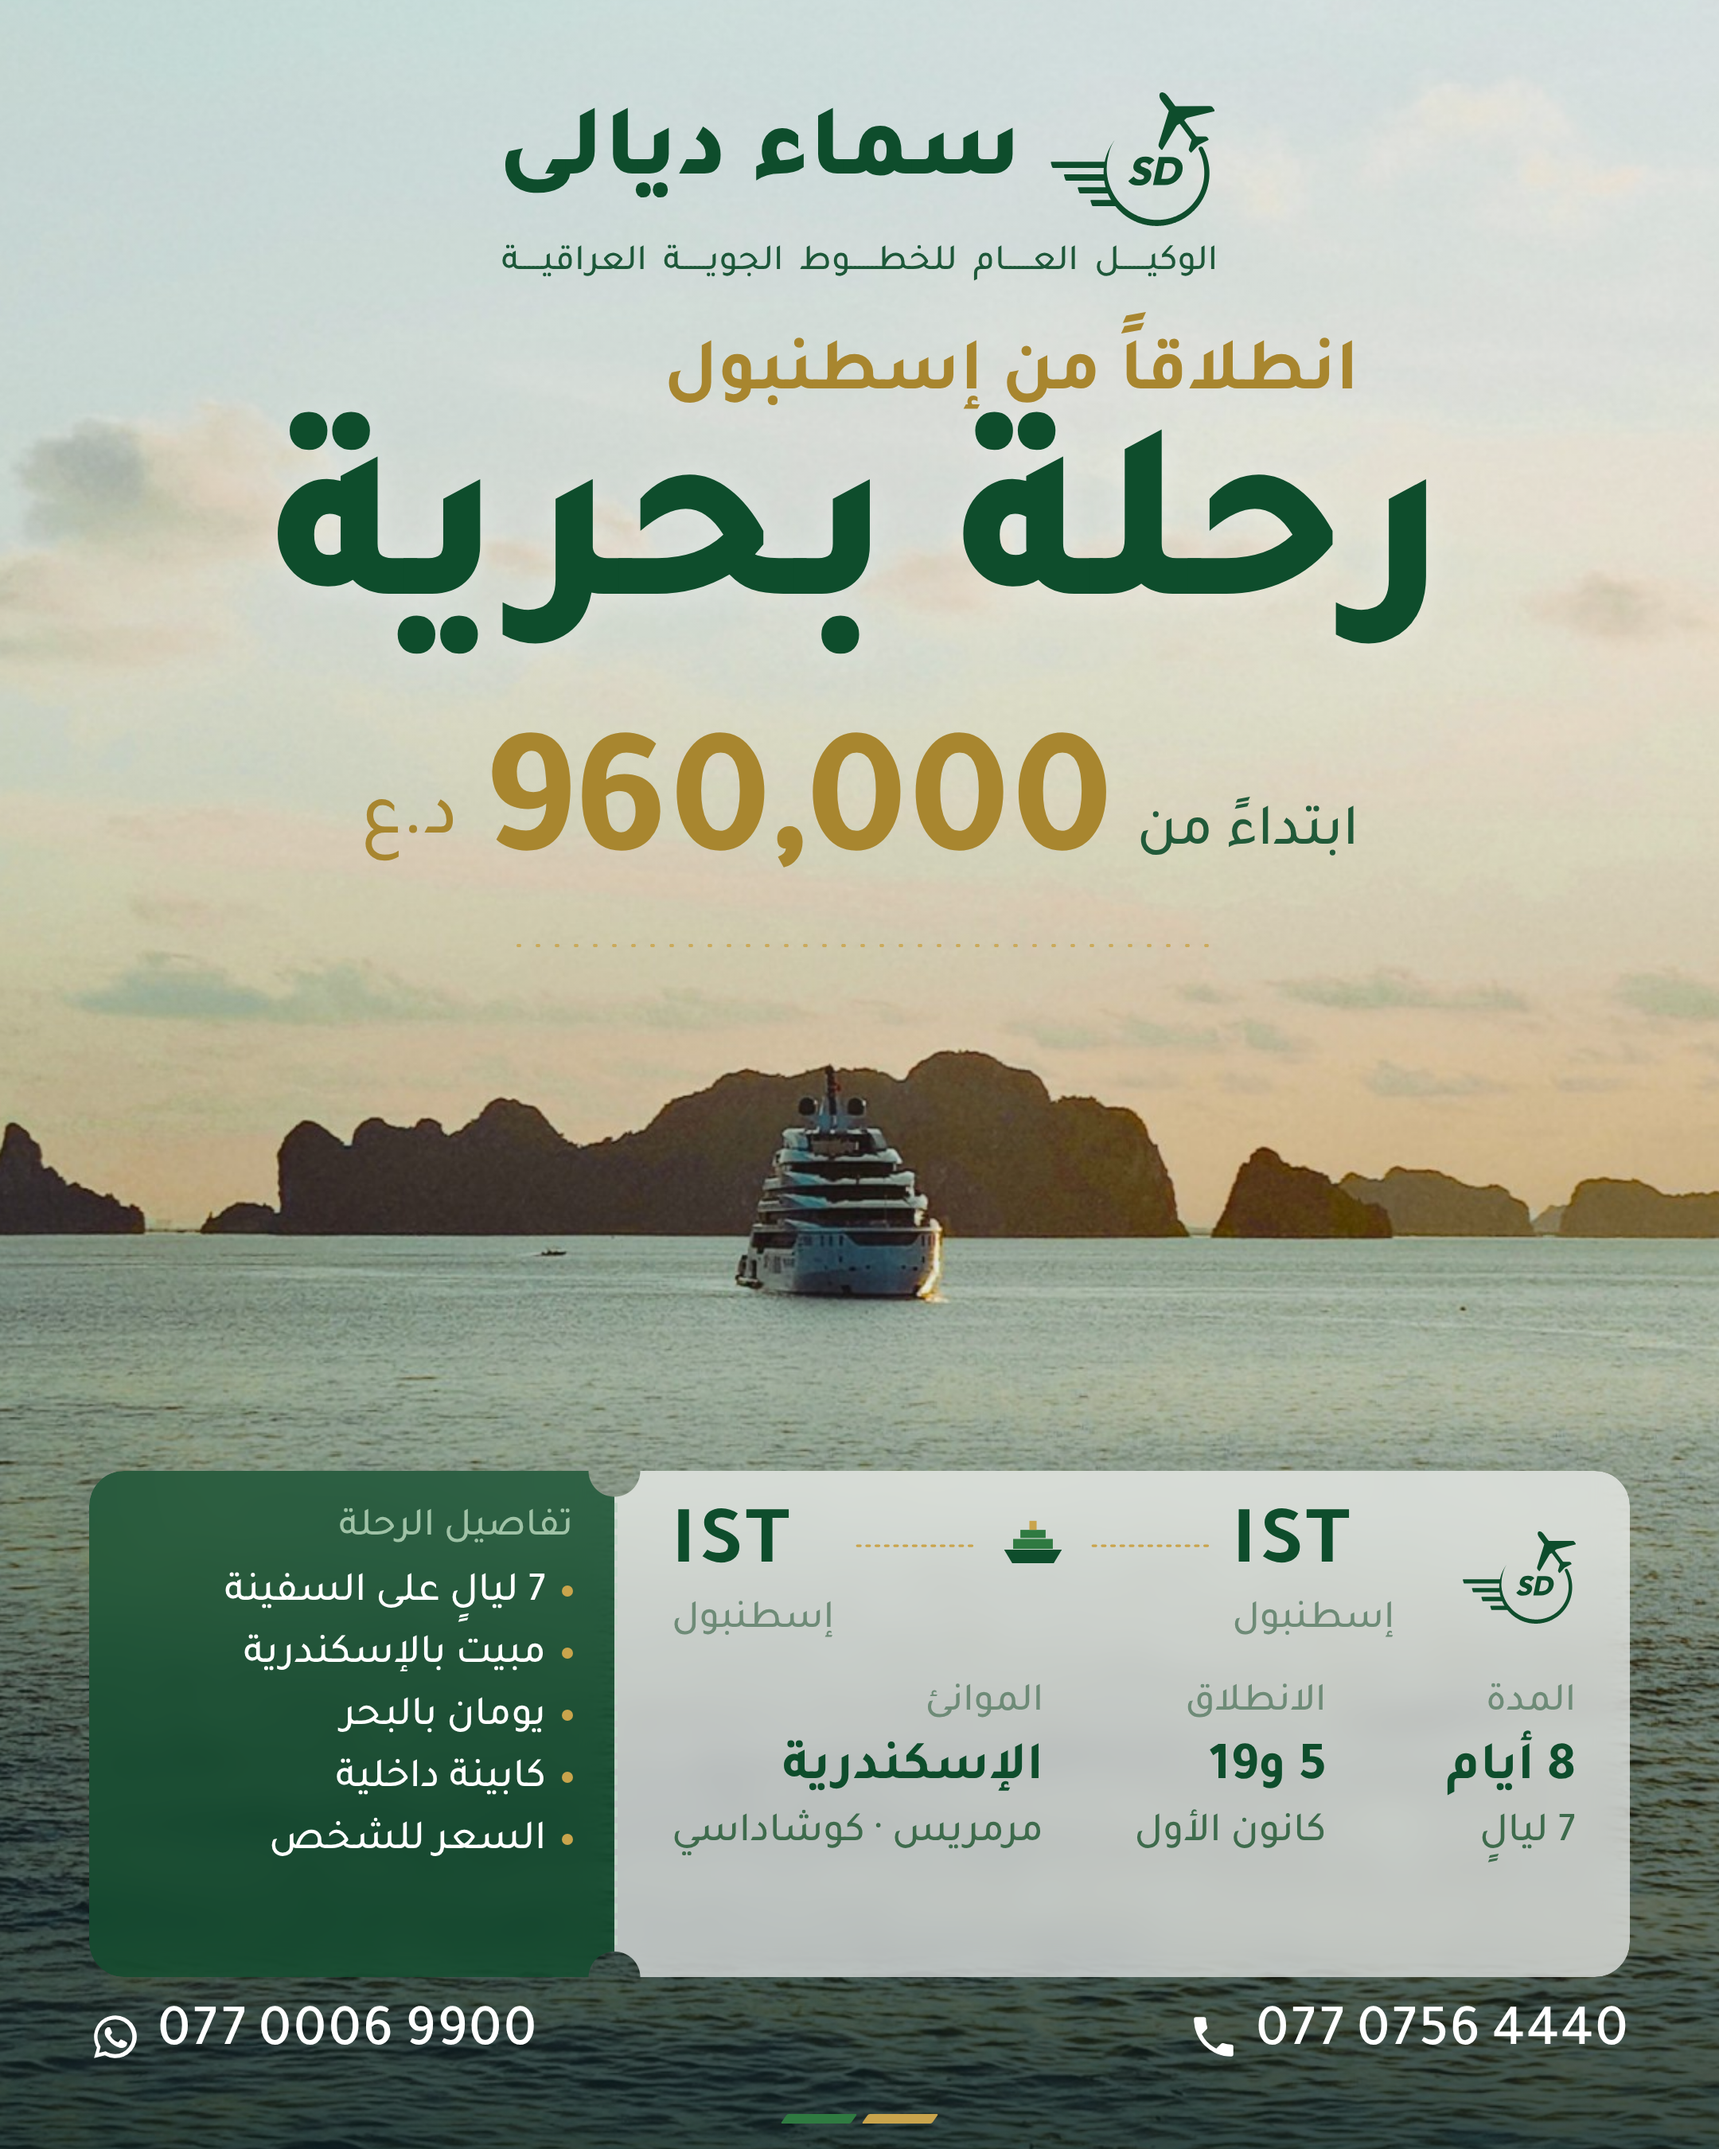
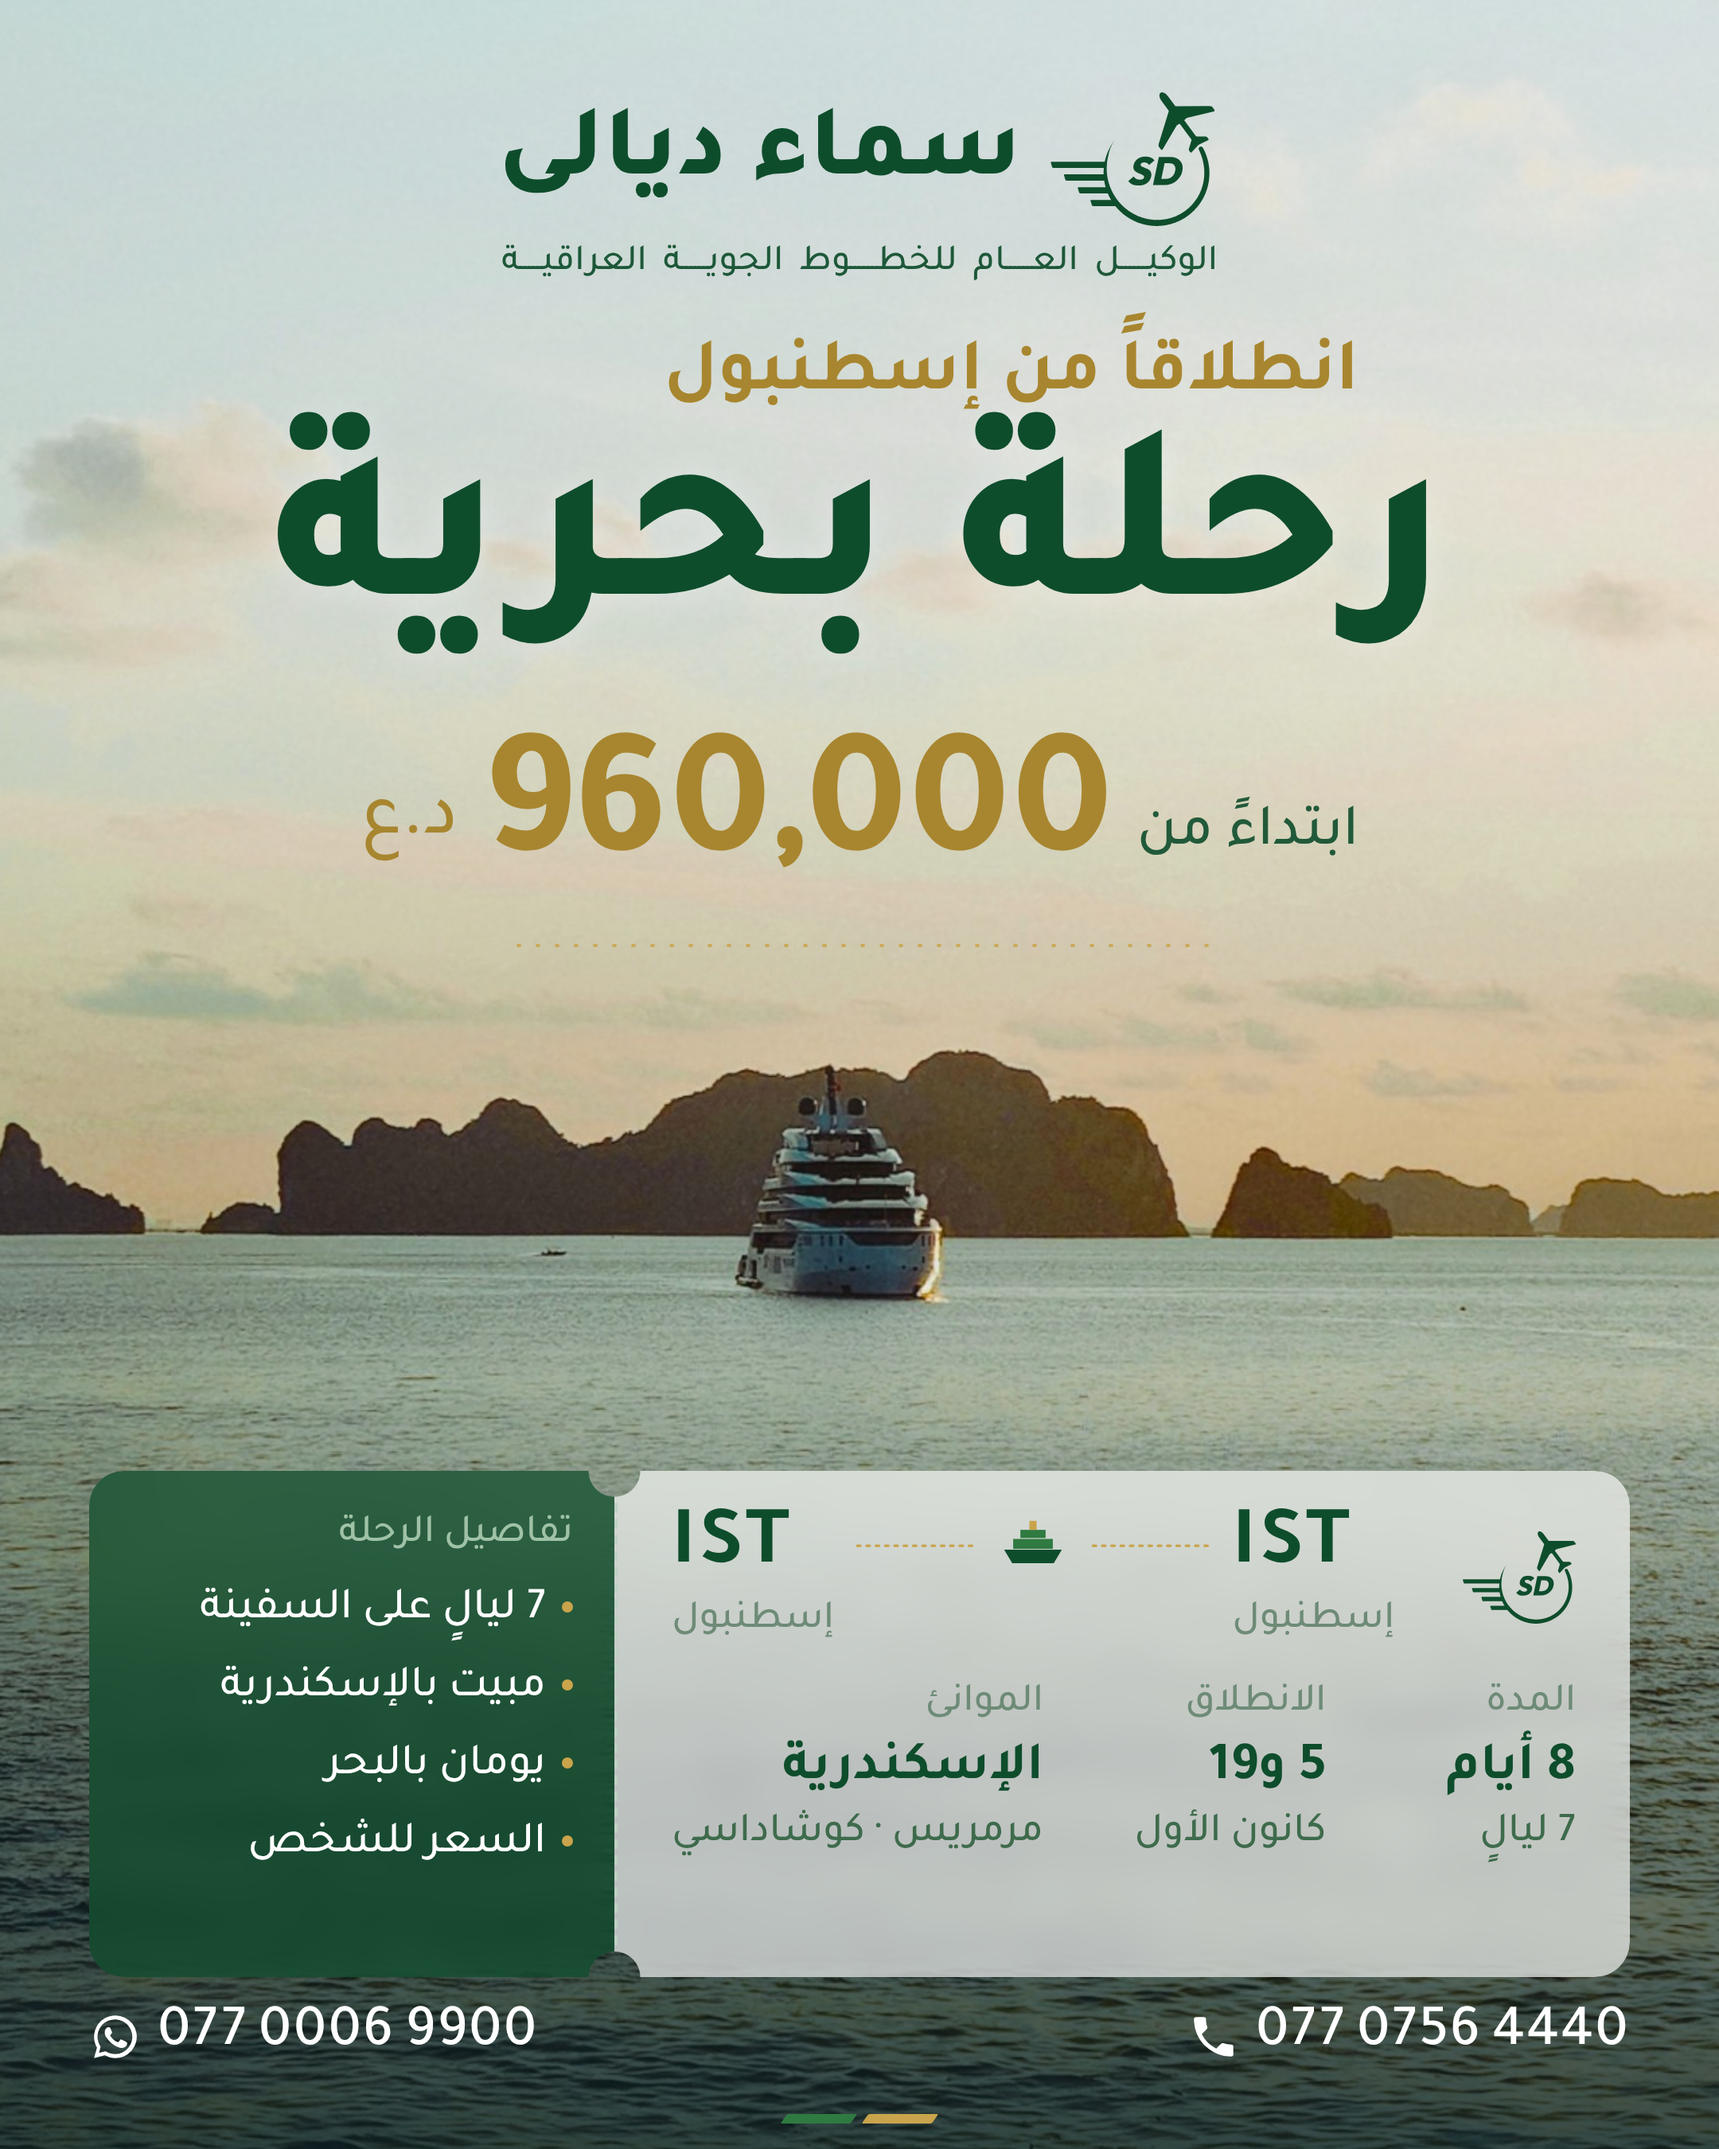
الرحلة البحرية: حذف نوع الكابينة من الإعلان والنص
Claude-Session: https://claude.ai/code/session_01EprWPUJDuKvYHn821imCPv

Changed region(s): [[0.1241, 0.6844, 0.3412, 0.8711]]

diff --git a/09-التصاميم/رحلة بحرية من إسطنبول - نظيف مع بطاقة صعود/إعلان.html b/09-التصاميم/رحلة بحرية من إسطنبول - نظيف مع بطاقة صعود/إعلان.html
@@ -122,8 +122,8 @@
   .f .v .sub{font-size:26px !important;margin-top:2px}
   .fields{margin-top:22px !important}
   .stubx{width:330px !important;padding:22px 26px !important}
-  .stubx .k{margin-bottom:6px !important}
-  .stubx ul{font-size:26px !important;line-height:1.5 !important}
+  .stubx .k{margin-bottom:8px !important;margin-top:4px}
+  .stubx ul{font-size:28px !important;line-height:1.75 !important}
 </style>
 </head>
 <body>
@@ -176,7 +176,7 @@
     </div>
     <div class="stubx">
       <div class="k">تفاصيل الرحلة</div>
-      <ul><li>7 ليالٍ على السفينة</li><li>مبيت بالإسكندرية</li><li>يومان بالبحر</li><li>كابينة داخلية</li><li>السعر للشخص</li></ul>
+      <ul><li>7 ليالٍ على السفينة</li><li>مبيت بالإسكندرية</li><li>يومان بالبحر</li><li>السعر للشخص</li></ul>
     </div>
   </div>
   <div class="stripes"><i></i><i></i></div>

diff --git a/CLAUDE.md b/CLAUDE.md
@@ -63,7 +63,7 @@
 ## نظام إعلانات العروض: "التصميم النظيف" (معتمد 18 تشرين الثاني 2026)
 حين يقول إحسان "التصميم النظيف" فالمقصود هذا النظام. المراجع المعتمدة في `11-مراجع-معتمدة/التصميم النظيف/` (إسطنبول، بيروت، الأردن)، والقالب الأساسي `09-التصاميم/إعلان إسطنبول رأس السنة/إعلان.html`.
 - اسم الوجهة بخط Naskh كبير (أكبر من السعر قليلاً) بين سطر الوكيل والسعر.
-- اللون حسب الخلفية: سماء داكنة = ترويسة بيضاء وسعر ذهبي، سماء فاتحة = ترويسة خضراء وسعر بالذهبي الغامق.
+- اللون حسب الخلفية: سماء داكنة = ترويسة بيضاء وسعر ذهبي، سماء فاتحة = ترويسة خضراء وسعر بالذهبي الغامق. كعب البطاقة "تفاصيل الرحلة" (7 ليالٍ على السفينة، مبيت بالإسكندرية، يومان بالبحر، السعر للشخص). نوع الكابينة وعدد من فيها لا يُكتبان في الإعلان ولا النص (بطلب إحسان: المسافر يعرفها عند الاتصال).
 - الصورة تُؤطَّر بحيث يبدأ المعلم تحت خط التخريم (عادةً بمدّ السماء للأعلى).
 - **من 19 تشرين الثاني 2026: نسخة "النظيف مع بطاقة صعود" هي التصميم المعتمد لكل إعلانات العروض.** مراجعها في `09-التصاميم/* - نظيف مع بطاقة صعود/`، وملف المشاركة `12-ملفات-للمشاركة/العروض - بطاقة الصعود.pdf`. البرنامج متعدد المدن (مثل الأردن) يُعرض بكولاج من ثلاث صور في ألواح مائلة بفواصل ذهبية، وفوقها الشريطان الأخضر والذهبي، والسماء من إحدى الصور.
 - نسخة "النظيف مع بطاقة صعود": سطر صغير ذهبي فوق الوجهة (مثل "برنامج رأس السنة") تبدأ حافته من حافة "ابتداءً من" نفسها بالقياس (`align.js`)، وبطاقة صعود أسفل الصورة: الجزء الأبيض فيه الرمز الأخضر والمسار وخانات المدة والانطلاق والطيران، والكعب الأخضر فيه "يشمل". البطاقة شبه شفافة بتأثير زجاجي (الأبيض rgba 255,255,255,.66 والكعب rgba 14,77,44,.72 مع blur 10px، بلا ظل). الرقم يبقى أسفل اليسار، وسطر الطيران والمدة ينتقلان إلى البطاقة. في خانة الانطلاق: الأيام في سطر والشهر تحتها. في خانة المدة متعددة الخيارات: "ابتداءً من" في سطر والمدة تحتها.
